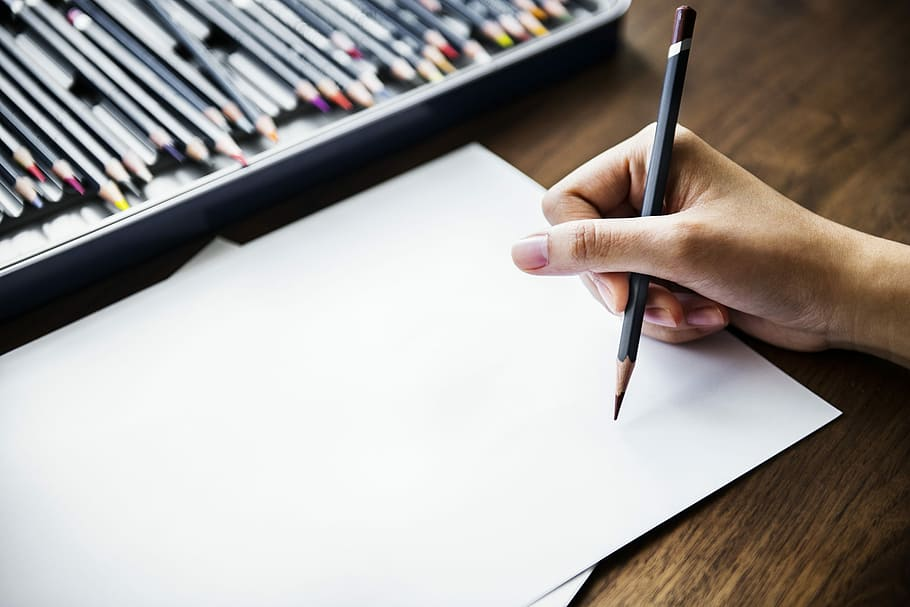
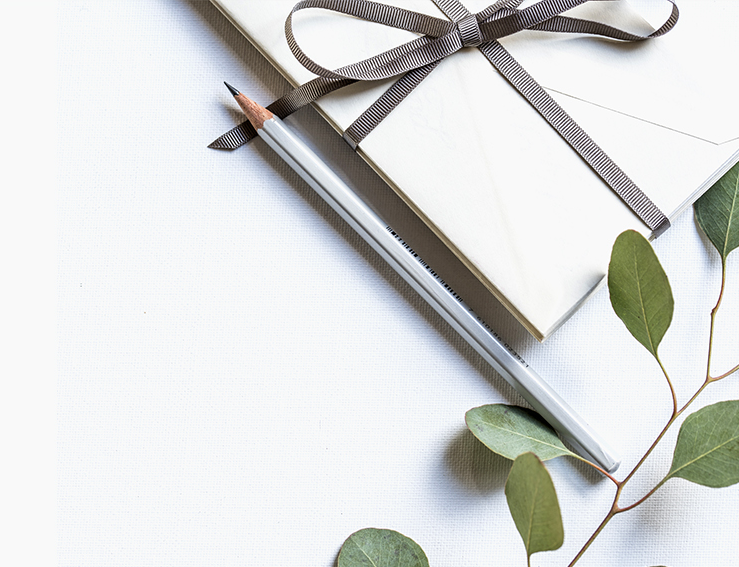
Add files via upload

diff --git a/index.html b/index.html
@@ -10,26 +10,54 @@
 
 </head>
 <body>
-    <header>
-        <nav>
-            <div class="logo"><img src="img/logo.png" alt="Design Studio logo" class="img-fluid"></div>
-            <ul>
-                <li><a href="#home">Home</a></li>
-                <li><a href="#about">About</a></li>
-                <li><a href="#work">Work</a></li>
-                <li><a href="#process">Process</a></li>
-                <li><a href="#services">Services</a></li>
-                <li><a href="#testimonials">Testimonials</a></li>
-                <li><a href="#contact">Contact</a></li>
-            </ul>
-        </nav>
-    </header>
+    <nav class="navbar navbar-expand-lg navbar-dark bg-dark">
+        <div class="container">
+            <a class="navbar-brand" href="#">
+                <img src="img/logo.png" alt="Logo" style="width: 30px;">
+            </a>
+            <button class="navbar-toggler" type="button" data-toggle="collapse" data-target="#navbarNav" aria-controls="navbarNav" aria-expanded="false" aria-label="Toggle navigation">
+                <span class="navbar-toggler-icon"></span>
+            </button>
+            <div class="collapse navbar-collapse" id="navbarNav">
+                <ul class="navbar-nav ml-auto">
+                    <li class="nav-item active">
+                        <a class="nav-link" href="#">Home</a>
+                    </li>
+                    <li class="nav-item">
+                        <a class="nav-link" href="#">About</a>
+                    </li>
+                    <li class="nav-item">
+                        <a class="nav-link" href="#">Work</a>
+                    </li>
+                    <li class="nav-item">
+                        <a class="nav-link" href="#">Process</a>
+                    </li>
+                    <li class="nav-item">
+                        <a class="nav-link" href="#">Services</a>
+                    </li>
+                    <li class="nav-item">
+                        <a class="nav-link" href="#">Testimonials</a>
+                    </li>
+                    <li class="nav-item">
+                        <a class="nav-link" href="#">Contact</a>
+                    </li>
+                </ul>
+            </div>
+        </div>
+    </nav>
 
-    <section id="home" class="hero">
-        <div class="hero-content">
-            <h1>We Design and Develop</h1>
-            <p>We are a new design studio based in USA. We have over 20 years of combined experience, and know a thing or two about designing websites and mobile apps.</p>
-            <a href="#contact" class="btn">Contact Us</a>
+    <section class="hero d-flex align-items-center">
+        <div class="container text-center">
+            <div class="row">
+                <div class="col-lg-6">
+                    <img src="img/laptop.jpg" alt="Laptop" style="width: 100%;">
+                </div>
+                <div class="col-lg-6 d-flex flex-column justify-content-center">
+                    <h1>We Design and Develop</h1>
+                    <p>We are a new design studio based in USA. We have over 20 years of combined experience, and know a thing or two about designing websites and mobile apps.</p>
+                    <a href="#" class="btn btn-primary">Contact Us</a>
+                </div>
+            </div>
         </div>
     </section>
 
@@ -63,8 +91,8 @@
                 </div>
             </div>
         </div>
-        <div class="skills-image">
-            <img src="img/brush1.jpg" alt="Brushes">
+        <div style="align-items: right;">
+            <img src="img/pencil.jpg" alt="Pencil" style="width: 100%;">
         </div>
     </section>
 

diff --git a/style.css b/style.css
@@ -122,40 +122,60 @@ header {
     box-shadow: 0 2px 4px rgba(0,0,0,0.1);
 }
 
-nav {
-    display: flex;
-    justify-content: space-between;
-    align-items: center;
-    max-width: 1200px;
-    margin: 0 auto;
-    padding: 0 20px;
+.navbar {
+    padding: 15px 0;
 }
 
-    nav .logo img {
-        height: 40px;
+.hero {
+    background-color: #f4f4f4;
+    height: 50vh;
+}
+
+.hero .container {
+    max-width: 1200px;
+}
+
+.hero h1 {
+    font-size: 3rem;
+    margin-bottom: 20px;
+}
+
+.hero p {
+    font-size: 1.25rem;
+    color: #777;
+    margin-bottom: 30px;
+}
+
+.hero .btn-primary {
+    background-color: #00bfa5;
+    border-color: #00bfa5;
+    padding: 10px 20px;
+    font-size: 1.25rem;
+}
+
+.hero .btn-primary:hover {
+    background-color: #009688;
+    border-color: #009688;
+}
+
+@media (max-width: 768px) {
+    .hero {
+        height: auto;
+        padding: 40px 0;
     }
 
-    nav ul {
-        list-style: none;
-        display: flex;
+    .hero h1 {
+        font-size: 2.5rem;
     }
 
-        nav ul li {
-            margin-left: 20px;
-        }
+    .hero p {
+        font-size: 1rem;
+    }
 
-            nav ul li a {
-                text-decoration: none;
-                color: #333;
-                padding: 5px 10px;
-                border-radius: 5px;
-                transition: background 0.3s;
-            }
-
-                nav ul li a:hover {
-                    background: #eee;
-                }
-
+    .hero .btn-primary {
+        font-size: 1rem;
+    }
+}
 .skills {
     display: flex;
     justify-content: space-between;
@@ -201,22 +221,7 @@ nav {
         left: 0;
     }
 
-.skills-image {
-    width: 50%;
-}
 
-    .skills-image img {
-        max-width: 100%;
-        height: auto;
-        display: block;
-    }
-
-.hero {
-    background: url("../img/bg__lead.jpg") no-repeat center center/cover;
-    color: #fff;
-    padding: 100px 20px;
-    text-align: center;
-}
 .our_works .our_works-lead {
     max-width: 620px;
     margin: 95px auto 45px;
@@ -229,24 +234,7 @@ nav {
     
 }
 
-    .hero h1 {
-        font-size: 48px;
-        margin: 0 0 20px;
-    }
-
-    .hero p {
-        font-size: 18px;
-        margin: 0 0 20px;
-    }
-
-    .hero .btn {
-        background: #007bff;
-        color: #fff;
-        padding: 10px 20px;
-        text-decoration: none;
-        border-radius: 5px;
-    }
-
+    
     .services {
         padding: 60px 0;
         background-color: #f8f9fa;
